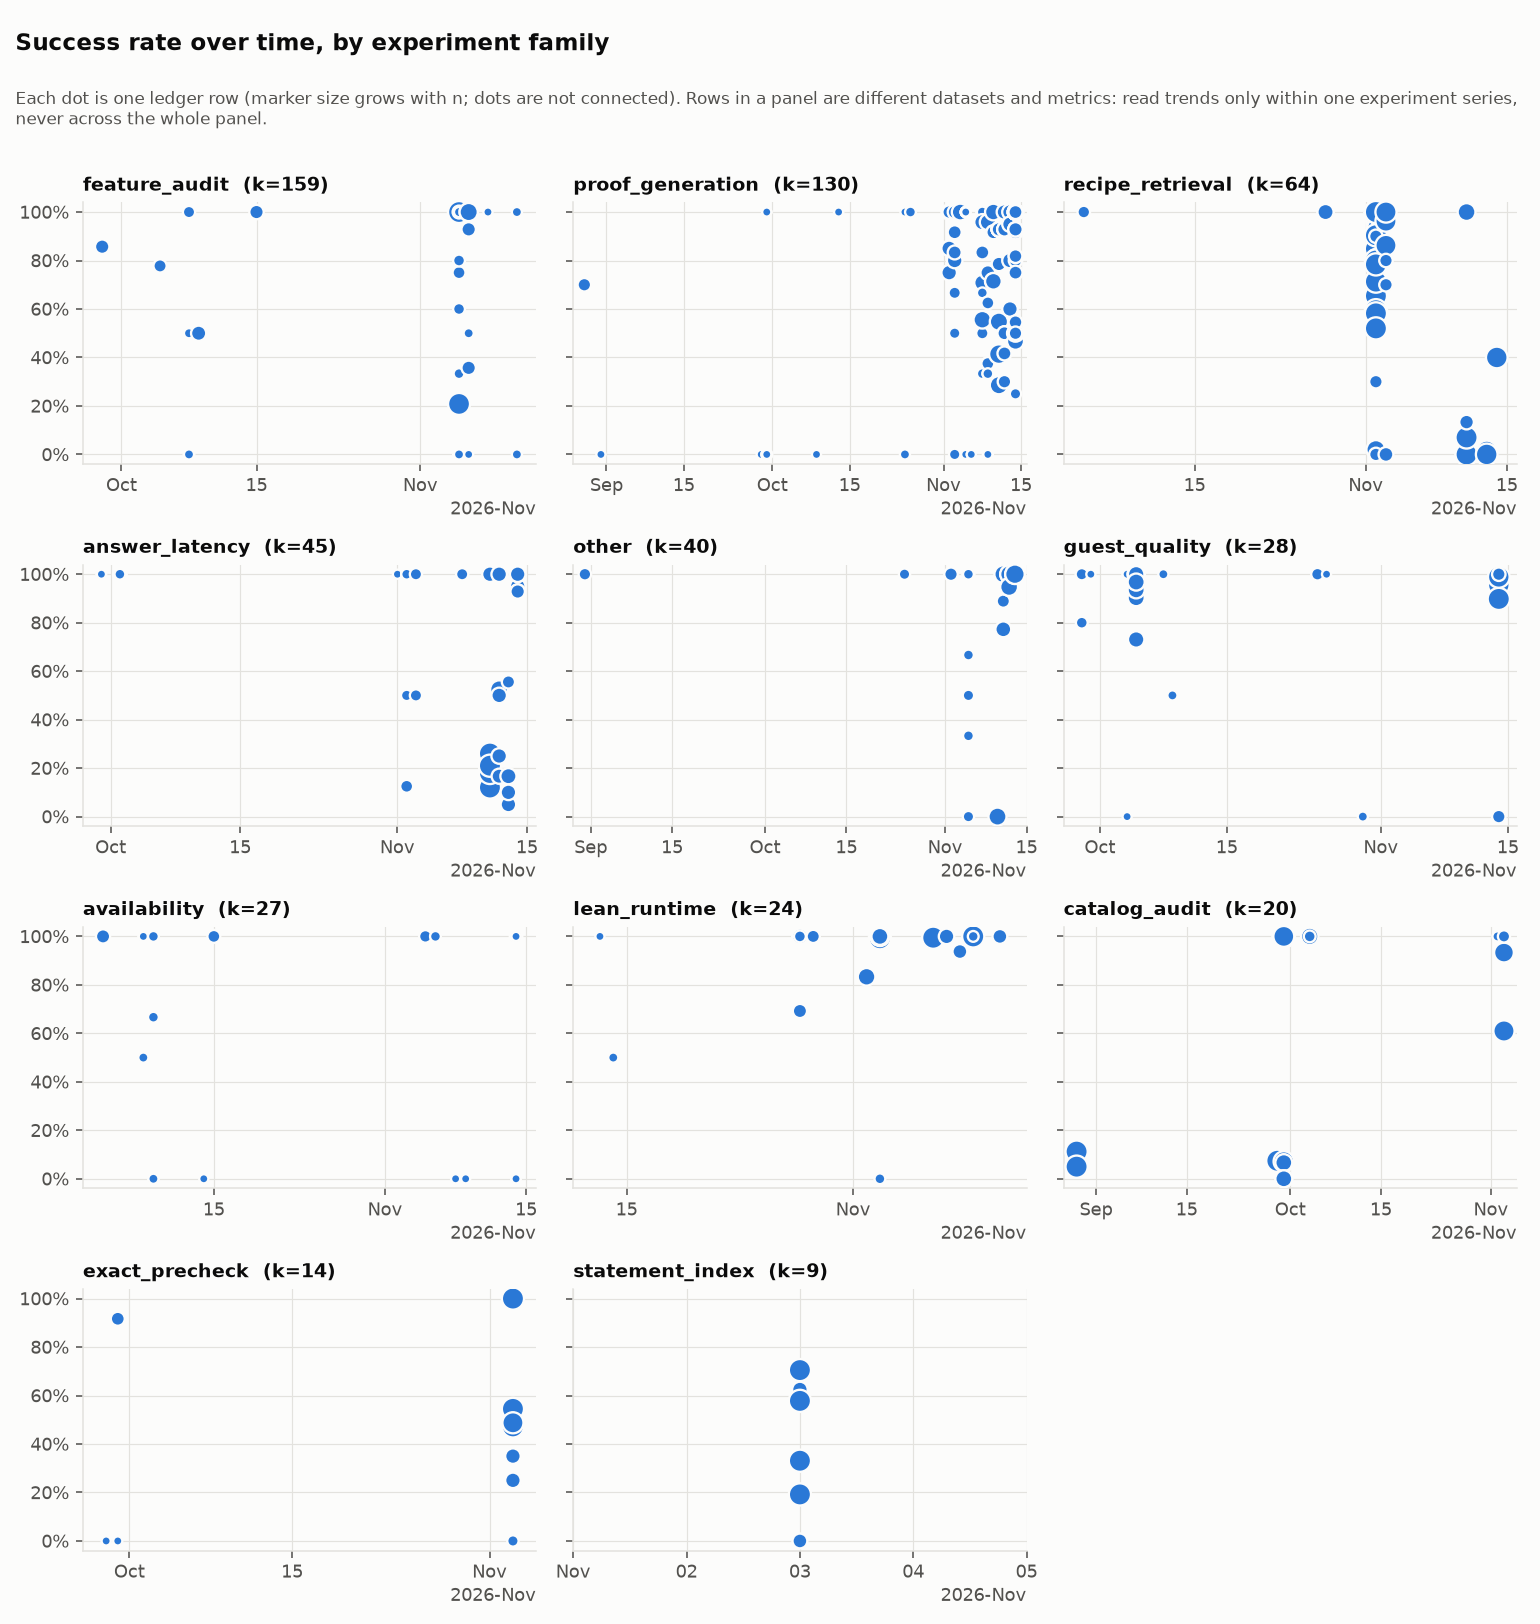
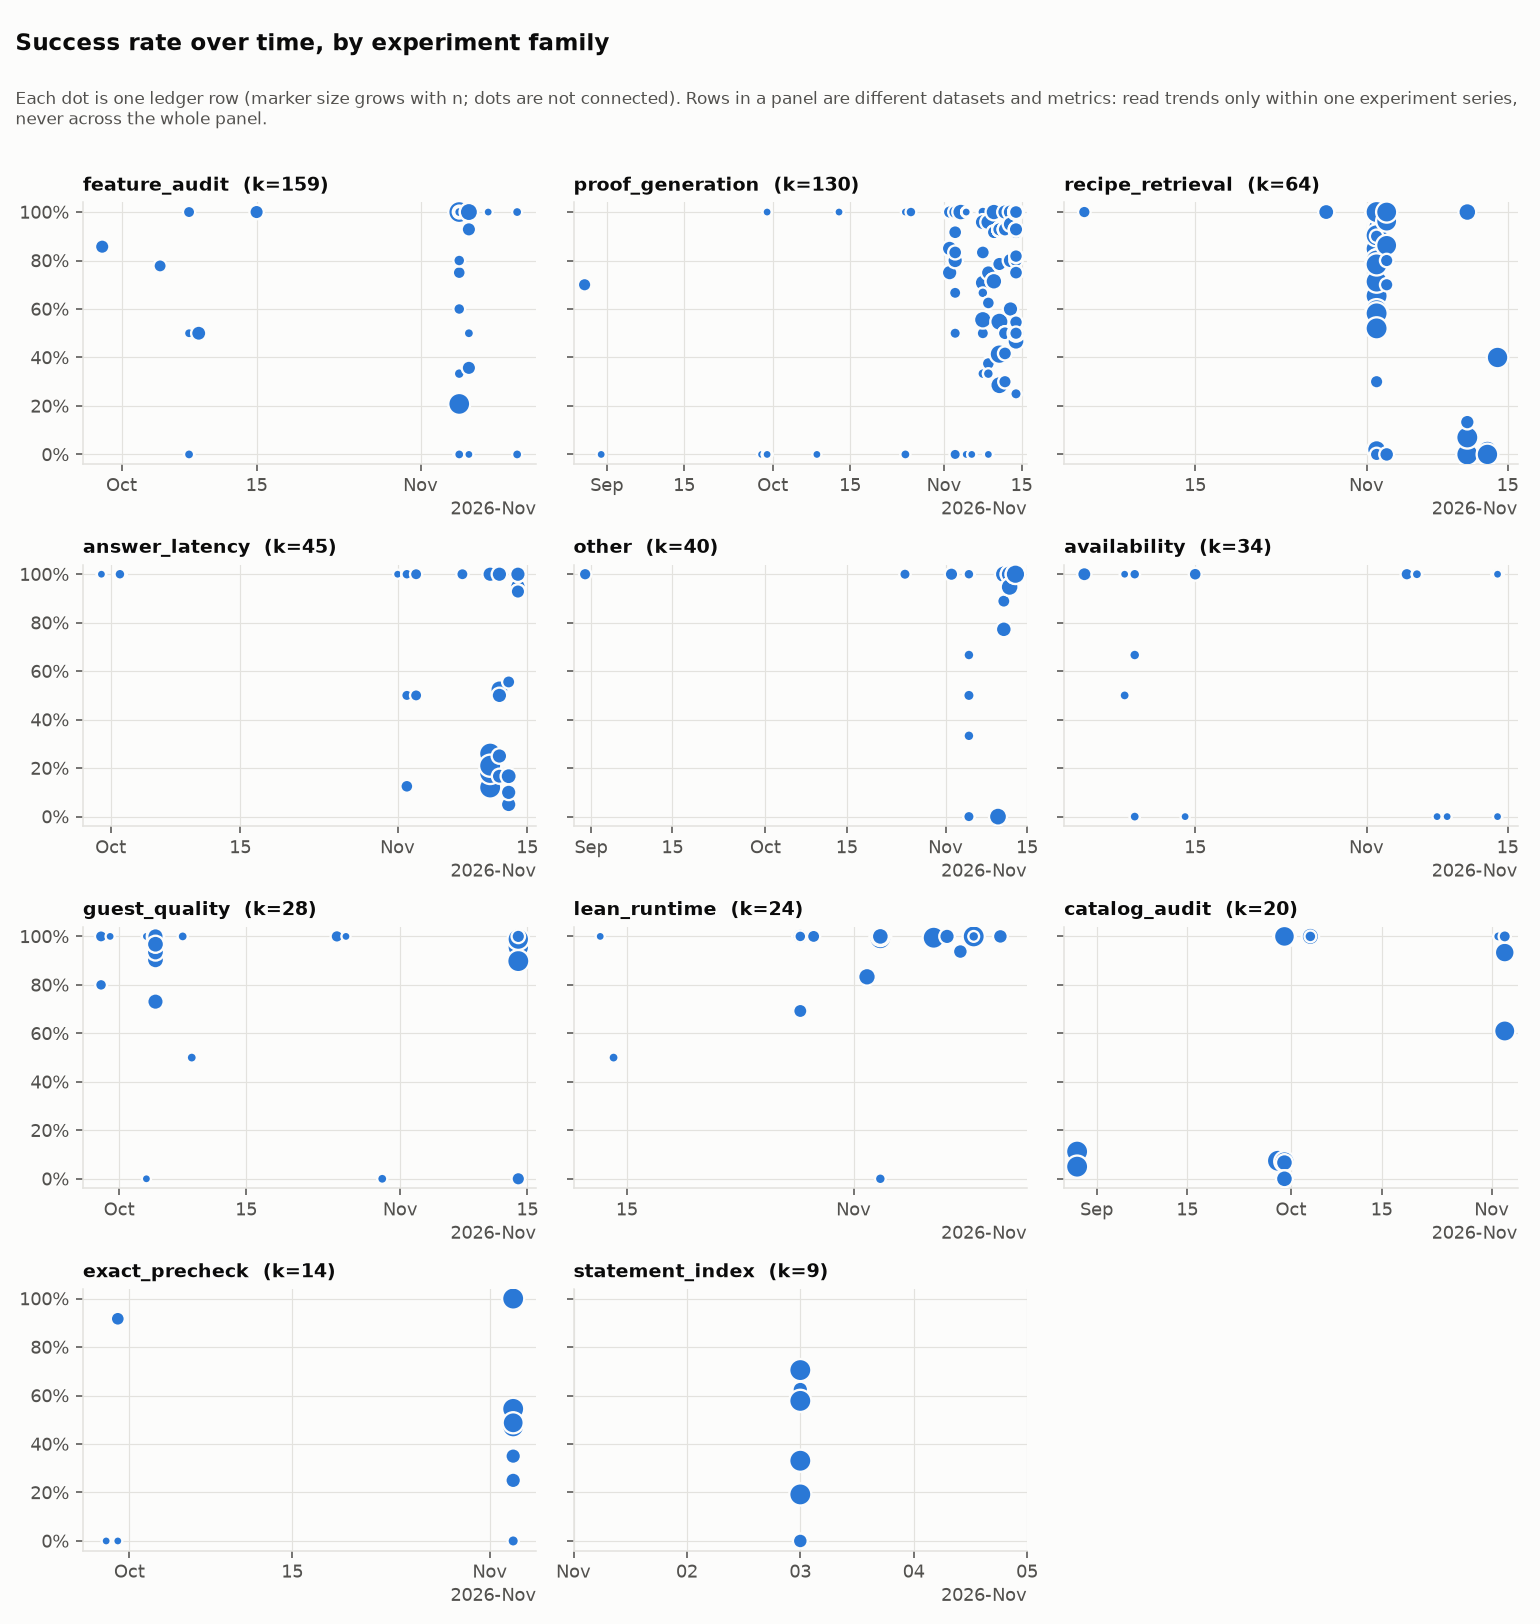
Record all seven post-merge seq30 rehearsal results

diff --git a/docs/seq30-preflight-diagnosis-2026-11-14.md b/docs/seq30-preflight-diagnosis-2026-11-14.md
@@ -65,3 +65,26 @@ infraの開発コミット`684dd17bda3c60a927ae12824f070cb2186d659d`で、`umask
 |---|---|
[2 lines of base64/hex data omitted]
+
+
+## マージ後03ccの7筋書き
+
+infraのマージ後コミット`03cc80fd501bb6d64de4e242ce97efb3482a69a3`をcleanのまま固定し、7筋書きを順に実行した。すべて終了コード0、`rehearsal_passed`で、`failed_checks`は空だった。各筋書きのタスク専用コンテナ、イメージ、ネットワーク、ボリュームの回収を確認した。実行後もソースはcleanだった。
+
+成功の定義は、各筋書きが期待する停止、復旧、照合などの結果まで確認できたことである。意図的にcontrollerを失敗させる筋書きも、その期待結果と安全条件を満たせば予行として成功と数える。本番の切り替えや数学回答の成功には数えない。
+
+| 筋書き | 所要秒 | 開始時load average（1分・5分・15分） | ログSHA-256 |
+|---|---:|---|---|
[7 lines of base64/hex data omitted]
+
+各筋書きは600秒未満だったが、ケースの所要時間の合計は2552.089秒、ラッパー全体は2553.067秒だった。7筋書き全体を10分以内に終える条件は満たしていない。各筋書きが10分未満だったことを、全体の条件達成に読み替えない。
+
+台帳には7行を追加し、各筋書きを1試行・成功1とした。既存の失敗3試行と開発検証1試行は保持し、改善率やモデルの正答率は算出しない。単体テスト、CI、内部コマンドの件数も試行数に足さない。
+
[1 lines of base64/hex data omitted]
